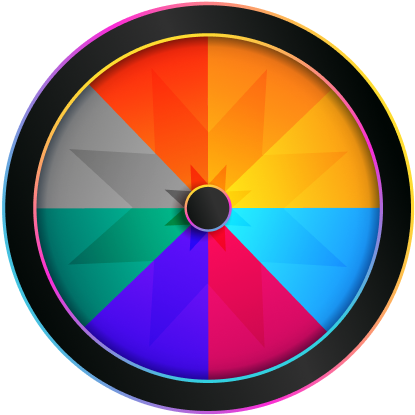
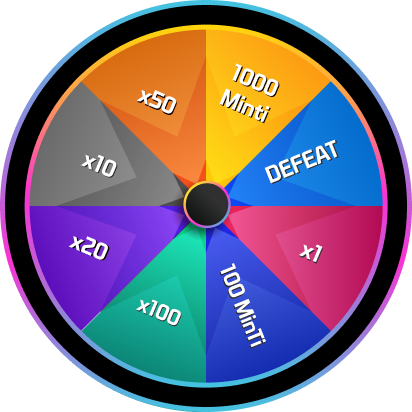
md 추가

diff --git a/README.md b/README.md
@@ -1,2 +1,15 @@
 # JsLibraryTest
+
 자바스크립트 라이브러리 테스트
+
+### 라이브러리 목록
+
+- winwheel.js
+
+  [url - winwheel.js](http://dougtesting.net/home)
+
+  > 룰렛 라이브러리<br>
+  > 애니메이션 사용시 gsap 라이브러리가 필요함<br>
+
+  - TweenMax 파일 다운로드
+    [https://www.cdnpkg.com/gsap/file/TweenMax.min.js/]
